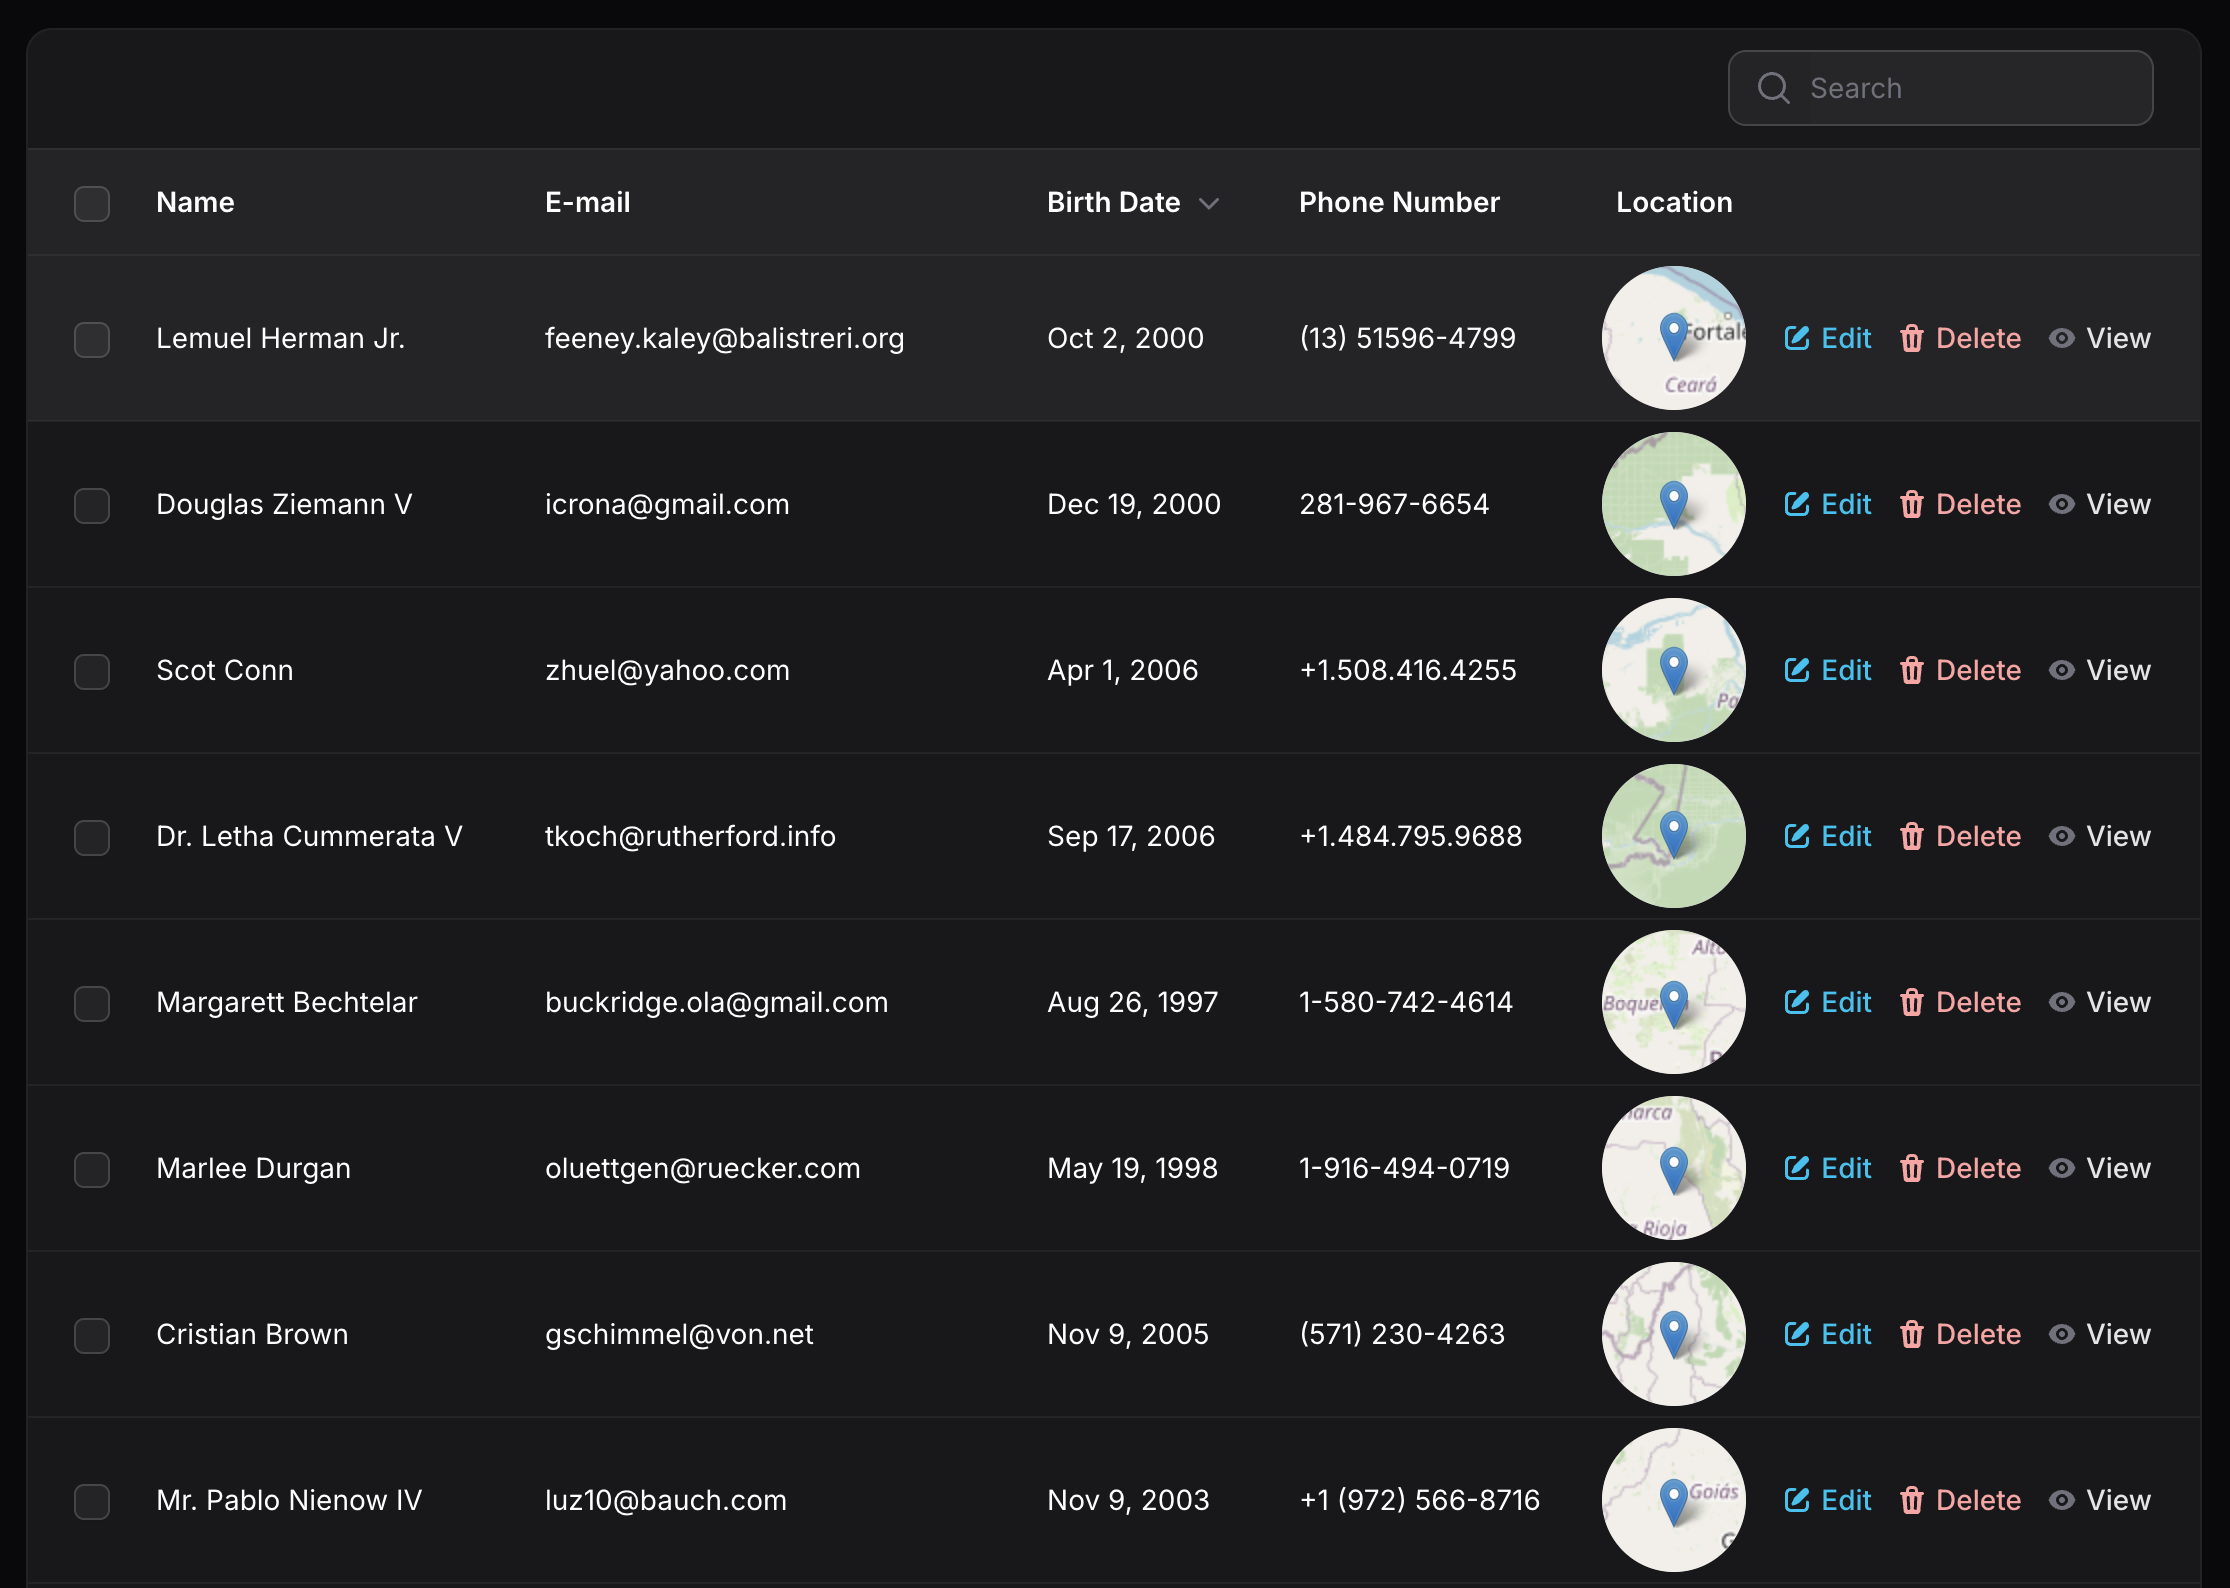
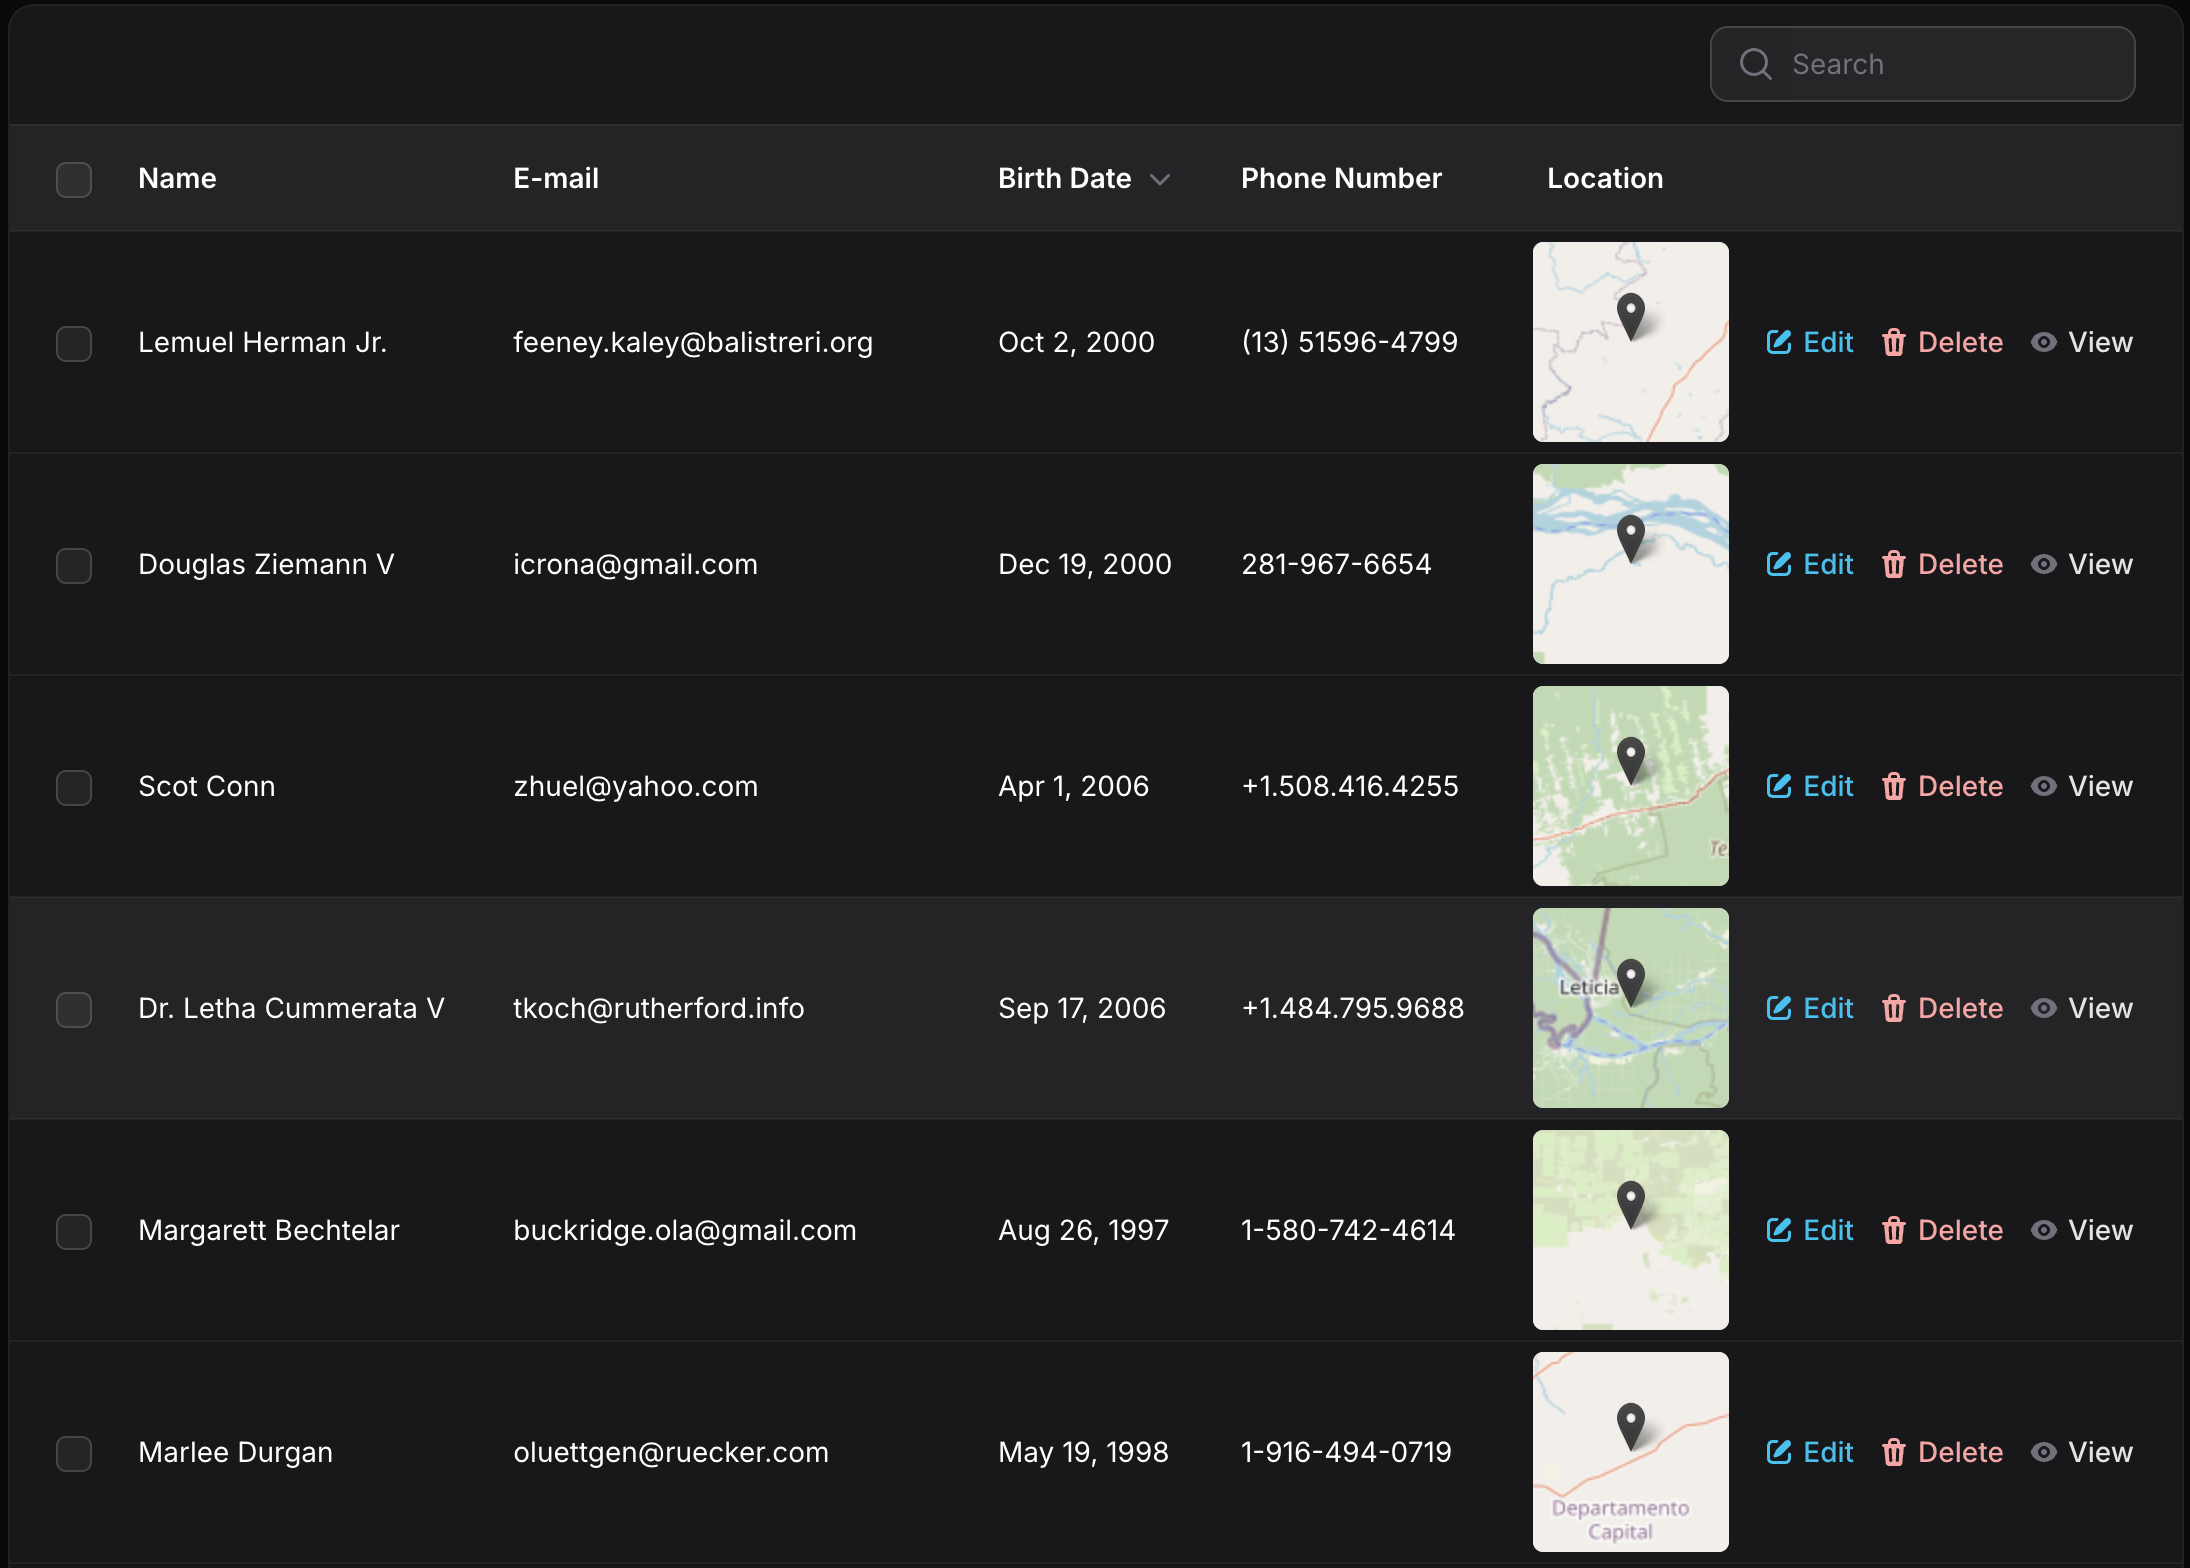
refactor: update README and remove draw assets from Vite config

diff --git a/vite.config.ts b/vite.config.ts
@@ -25,10 +25,6 @@ export default defineConfig({
                     dest: 'images'
                 },
                 {
-                    src: 'node_modules/leaflet-draw/dist/images/*.png',
-                    dest: 'images'
-                },
-                {
                     src: 'resources/images/*.png',
                     dest: 'images'
                 },

diff --git a/src/Tables/MapColumn.php b/src/Tables/MapColumn.php
@@ -11,7 +11,6 @@ class MapColumn extends Column
 {
     use HasMapState {
         getMapHeight as getParentMapHeight;
-        getMapCenter as getParentMapCenter;
         getCustomStyles as getParentCustomStyles;
     }
 
@@ -38,15 +37,6 @@ class MapColumn extends Column
     protected function getMapControls(): array
     {
         return [];
-    }
-
-    protected function getMapCenter(): array
-    {
-        $center = $this->getParentMapCenter();
-        $pickMarkerSize = $this->pickMarker->getIconSize();
-
-        $center[0] += $pickMarkerSize[1] / 45; // compensa a altura do ícone do $pickMarker
-        return $center;
     }
 
     public function getState(): mixed

diff --git a/README.md b/README.md
@@ -41,7 +41,7 @@ Publish the assets:
 php artisan vendor:publish --tag=filament-leaflet
 ```
 
-This will publish the Leaflet assets used by the package — the distribution now includes draw toolbar, marker cluster control, fullscreen control and geosearch toolbar assets.
+This will publish the Leaflet assets used by the package.
 
 ## Table of Contents
 
@@ -109,9 +109,6 @@ class MyMapWidget extends MapWidget
     protected int $defaultZoom = 4;
     protected int $maxZoom = 18;
     protected int $minZoom = 2;
-    
-    // Auto-center to user's current location
-    protected bool $autoCenter = false;
 }
 ```
 
@@ -316,14 +313,25 @@ use EduardoRibeiroDev\FilamentLeaflet\Tables\MapColumn;
 use EduardoRibeiroDev\FilamentLeaflet\Support\Markers\Marker;
 
 MapColumn::make('location')
-    ->height(72)
-    ->zoom(5)
-    ->pickMarker(fn(Marker $marker) => $marker->icon(size: [14, 25]))
-    ->circular()  // Optional: circular display
+    ->height(100)
+    ->zoom(8)
+    ->pickMarker(fn(Marker $marker) => $marker->black())
     ->static()    // Disable interactions in table preview
 ```
 
 ![Table Column Example](images/table-column.png)
+
+Display circular maps for a unique visual style:
+
+```php
+MapColumn::make('location')
+    ->height(72)
+    ->zoom(5)
+    ->pickMarker(fn(Marker $marker) => $marker->icon(size: [14, 25]))
+    ->circular()  // Optional: circular display
+```
+
+![Table Column Example](images/circular-table-column.png)
 
 ### MapEntry (Infolist)
 
